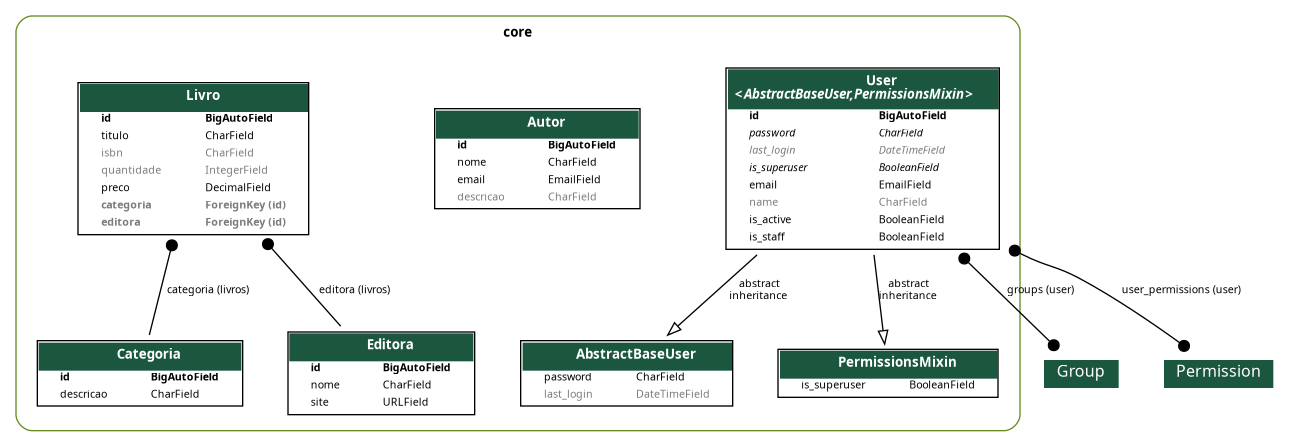
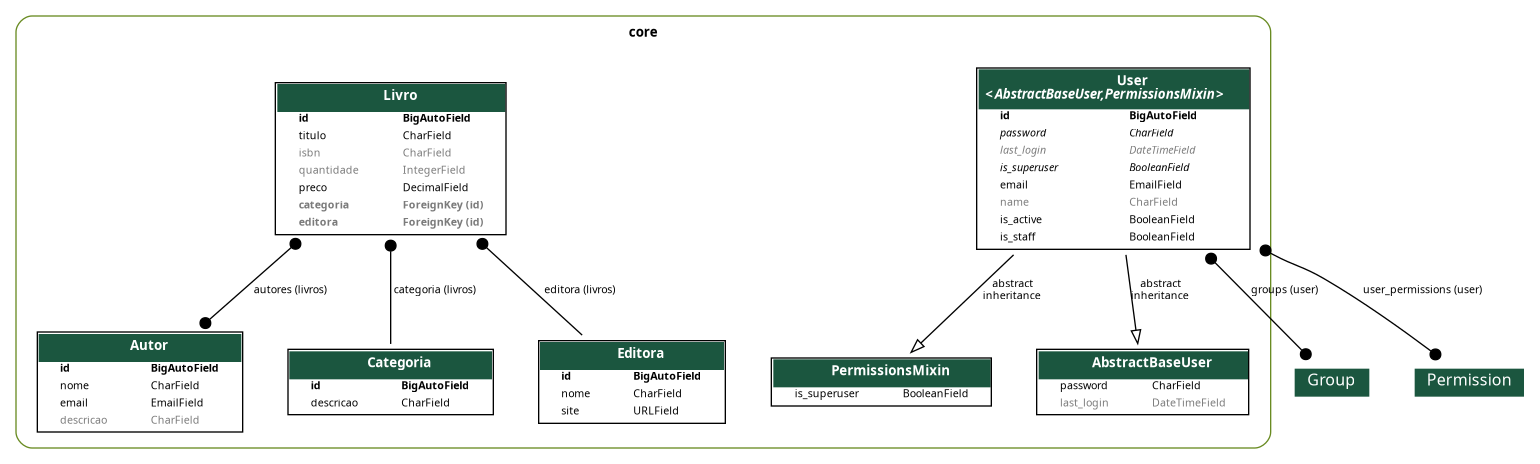
adição de autores em livro

diff --git a/core/models/livro.py b/core/models/livro.py
@@ -1,6 +1,6 @@
 from django.db import models
 
-
+from .autor import Autor
 from .categoria import Categoria
 from .editora import Editora
 
@@ -8,10 +8,11 @@ from .editora import Editora
 class Livro(models.Model):
     titulo = models.CharField(max_length=255)
     isbn = models.CharField(max_length=32, null=True, blank=True)
-    quantidade = models.IntegerField(default=0,  null=True, blank=True)
+    quantidade = models.IntegerField(default=0, null=True, blank=True)
     preco = models.DecimalField(max_digits=7, decimal_places=2, default=0)
     categoria = models.ForeignKey(Categoria, on_delete=models.PROTECT, related_name='livros', null=True, blank=True)
     editora = models.ForeignKey(Editora, on_delete=models.PROTECT, related_name='livros', null=True, blank=True)
+    autores = models.ManyToManyField(Autor, related_name='livros')
 
     def __str__(self):
         return f'({self.id}) {self.titulo} ({self.quantidade})'

diff --git a/core/views/user.py b/core/views/user.py
@@ -16,13 +16,13 @@ class UserViewSet(ModelViewSet):
     permission_classes = [IsAuthenticated]
 
     @extend_schema(
-        summary="Dados do usuário autenticado",
-        description="Retorna os dados do usuário autenticado.",
+        summary='Dados do usuário autenticado',
+        description='Retorna os dados do usuário autenticado.',
         responses={200: UserSerializer, 401: None},
     )
     @action(detail=False, methods=['get'], permission_classes=[IsAuthenticated])
     def me(self, request):
-        """ Retorna os dados do usuário autenticado."""
+        """Retorna os dados do usuário autenticado."""
         user = request.user
         serializer = UserSerializer(user)
         return Response(serializer.data, status=status.HTTP_200_OK)

diff --git a/core/migrations/0009_livro_autores.py b/core/migrations/0009_livro_autores.py
@@ -1,0 +1,18 @@
+# Generated by Django 5.2.12 on 2026-03-23 18:54
+
+from django.db import migrations, models
+
+
+class Migration(migrations.Migration):
+
+    dependencies = [
+        ('core', '0008_livro_categoria_livro_editora_alter_autor_descricao'),
+    ]
+
+    operations = [
+        migrations.AddField(
+            model_name='livro',
+            name='autores',
+            field=models.ManyToManyField(related_name='livros', to='core.autor'),
+        ),
+    ]

diff --git a/app/urls.py b/app/urls.py
@@ -12,7 +12,7 @@ from rest_framework_simplejwt.views import (
     TokenVerifyView,
 )
 
-from core.views import UserRegistrationView, UserViewSet, CategoriaViewSet, EditoraViewSet, AutorViewSet, LivroViewSet
+from core.views import AutorViewSet, CategoriaViewSet, EditoraViewSet, LivroViewSet, UserRegistrationView, UserViewSet
 
 router = DefaultRouter()
 

diff --git a/core/models/autor.py b/core/models/autor.py
@@ -5,6 +5,7 @@ class Autor(models.Model):
     nome = models.CharField(max_length=100)
     email = models.EmailField(max_length=100, null=True)
     descricao = models.CharField(max_length=100, null=True, blank=True)
+
     class Meta:
         verbose_name = 'autor'
         verbose_name_plural = 'autores'

diff --git a/core/models/editora.py b/core/models/editora.py
@@ -4,7 +4,6 @@ from django.db import models
 class Editora(models.Model):
     nome = models.CharField(max_length=100)
     site = models.URLField(max_length=100)
-    
 
     def __str__(self):
         return self.nome
